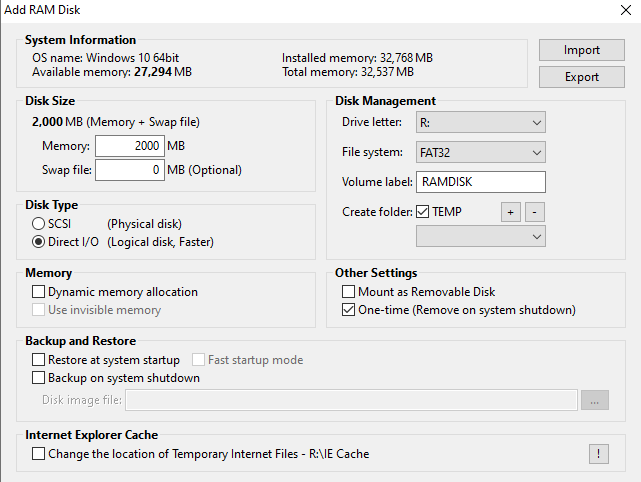
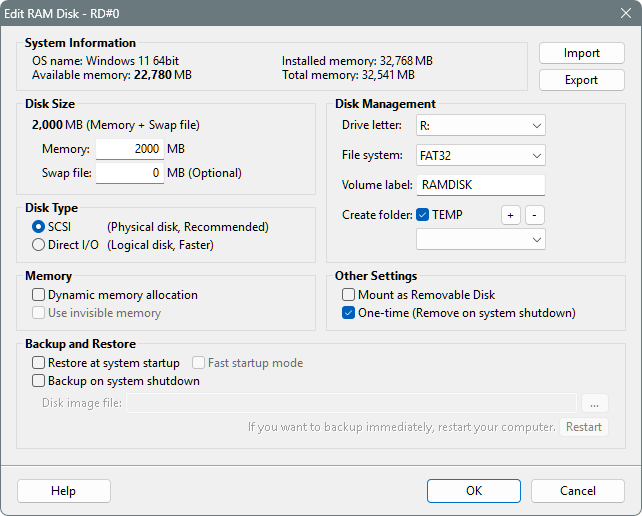
links;   update RAMdisk settings image

diff --git a/Arduino/black.htm b/Arduino/black.htm
@@ -118,7 +118,7 @@ My clone ST-Link happens to have the <em>correct pinout</em> printed on its cove
 <h3 id="stm32duino">STM32duino</h3>
 <p>Arduino now has an ST Microelectronics-supported
 	<a href="https://github.com/stm32duino/Arduino_Core_STM32/releases">core and board manager</a><br />
-<p><a href=../../static/Arduino2>Arduino 2 supports debugging</a>, but does not run correctly with RAM Disk installed.
+<p><a href=../../static/Arduino2>Arduino 2 supports debugging</a>, but does not run correctly with <a href=../../static/RAMdisk/index.htm>ImDisk installed</a>.
 <br>Alternatively, try <a href=../../static/VSCodeArduino/index.htm><b>VSCode-Arduino</b></a>
 <p><a href="https://www.arduino.cc/en/software">Here is the Arduino software page</a>.<br />
 <a href="https://www.stm32duino.com">Here is the <b>Arduino for STM32</b> forum</a>.

diff --git a/Windows/compare.htm b/Windows/compare.htm
@@ -52,7 +52,7 @@ M$:&nbsp <a href="https://learn.microsoft.com/en-us/windows/security/hardware-se
 </details>
 
 <a name=SW><h4>Antec initial Windows software links:</h4></a>
-<a href="http://www.ultraramdisk.com/?mid=en_home&l=en">Ultra RAMDisk</a> &nbsp <img align=top width=50% src="image/UltraRAMDISK.png"><br>
+<a href=../../static/RAMdisk/index.htm>Ultra RAMDisk</a> &nbsp <img align=top width=50% src="image/UltraRAMDISK.png"><br>
 <a href="https://www.irfanview.com/">IrfanView</a> and plugins<br>
 <a href="https://www.vim.org/">VIM - Vi IMproved</a> &nbsp <i>these 3 installed in</i> <code>D:\my\</code><br>
  &nbsp &nbsp Copied <code>_vimrc</code> from R7 <code>Users\bleke\</code><br>

diff --git a/index.md b/index.md
@@ -138,6 +138,7 @@ Arduino 2 IDE (which adds debugging) [**is broken for me**](../static/Arduino2/i
 - [PC misguided buying - January 2022](Windows/PC)  
   - [Flight Simulator 2020 and Alienware Area 51 R2](Windows/FS2020)
   - [H670 ATX motherboards](Windows/H670ATX) *cannot underVolt*
+- [RAMdisk](../static/RAMdisk/index.htm)  
 - **Routers, modems and SAN**:  
   - [Buffalo LinkStation 210](../static/network/LinkStation.htm)  
   - [Sagemcom F@st 5260, FreshTomato and Linksys EA6500v2](../static/network/FreshTomato.htm)  
